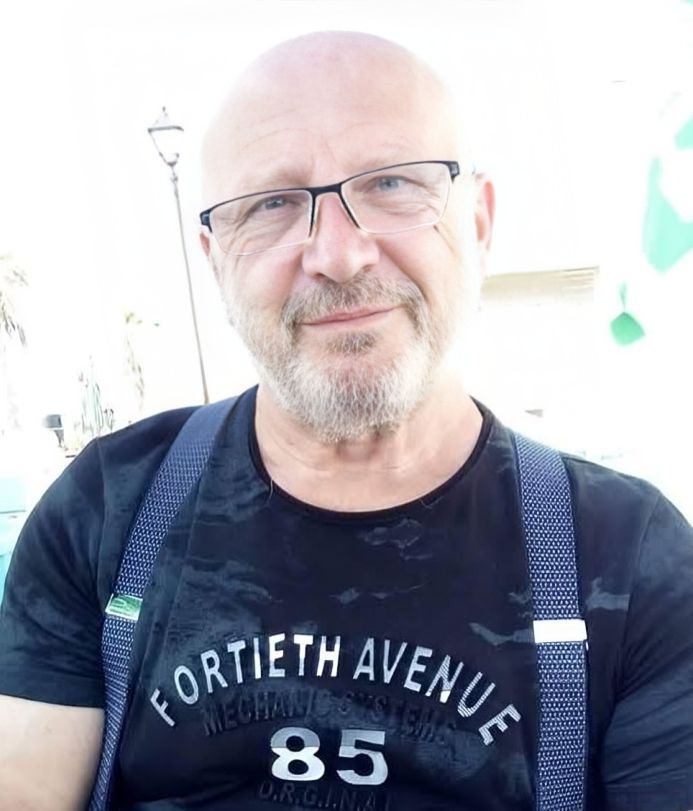
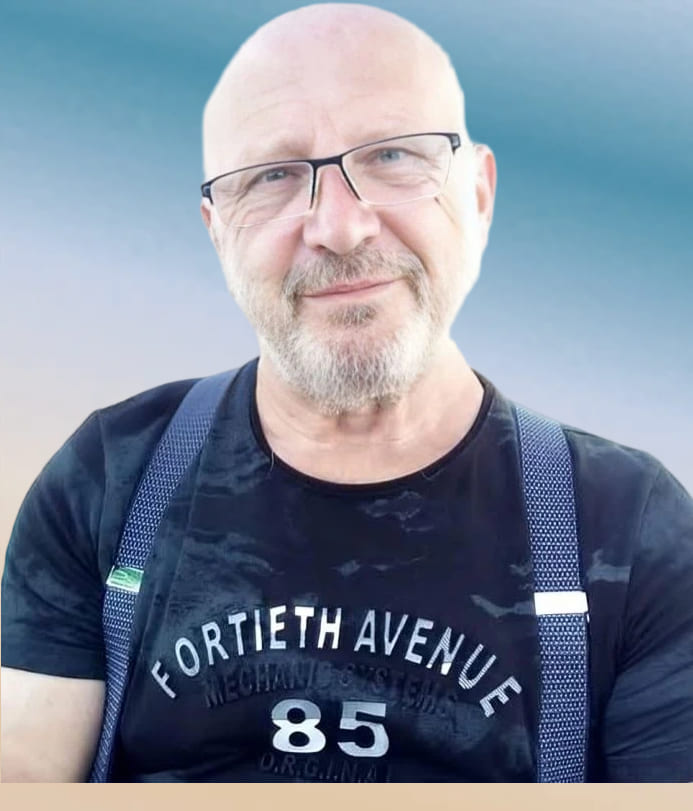
dudek

diff --git a/database.js b/database.js
@@ -7434,8 +7434,43 @@ window.db = {
         "person_pesah_gitman",
         "person_rukhlya_1891"
       ],
-      "spouse": null
+      "spouse": "person_david_shain"
     },
     "gender": "female"
+  },
+  "person_david_shain": {
+    "id": "person_david_shain",
+    "name": {
+      "ru": "Давид (Дудек) Шайн",
+      "en": "David (Dudek) Shine"
+    },
+    "years": "",
+    "isDeceased": true,
+    "mainPhoto": "",
+    "milestones": {
+      "birthPlace": {
+        "ru": "Польша",
+        "en": "Poland"
+      },
+      "marriage": {
+        "ru": "Бэлла Песаховна Шайн (Гитман)",
+        "en": "Bella Pesakhovna Shine (Gitman)"
+      },
+      "occupation": {
+        "ru": ""
+      },
+      "burial": {
+        "ru": "Израиль",
+        "en": "Israel"
+      }
+    },
+    "bio": {
+      "ru": "",
+      "en": ""
+    },
+    "links": {
+      "parents": [],
+      "spouse": "person_bella_shain"
+    }
   }
 };
